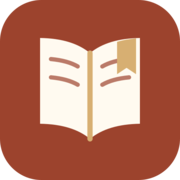
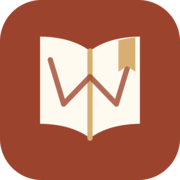
feat(brand): rename app to Das Wort

diff --git a/src/App.tsx b/src/App.tsx
@@ -35,6 +35,7 @@ import {
   readerFontStacks,
 } from './ReaderSettings';
 import type { HighlightColor, ReaderTheme } from './ReaderSettings';
+import { readAppStorage, writeAppStorage } from './storage';
 import type { Book, Passage, PassageLocation, SearchResult, StudyComment, Translation } from './types';
 
 const DEFAULT_BOOK = 43;
@@ -51,7 +52,7 @@ type ReadingState = {
 
 function loadReadingState(): Partial<ReadingState> {
   try {
-    const saved = JSON.parse(localStorage.getItem('bibelraum.reading-state') ?? '{}');
+    const saved = JSON.parse(readAppStorage('reading-state') ?? '{}');
     return saved && typeof saved === 'object' ? saved as Partial<ReadingState> : {};
   } catch {
     return {};
@@ -68,7 +69,7 @@ function getInitialLocation() {
     bookId: hasUrlLocation ? book : Number(saved.bookId) || DEFAULT_BOOK,
     chapter: Number.isInteger(chapter) && chapter > 0 ? chapter : Number(saved.chapter) || DEFAULT_CHAPTER,
     translation: params.get('uebersetzung')?.toUpperCase() ||
-      saved.translation || localStorage.getItem('bibelraum.translation') || DEFAULT_TRANSLATION,
+      saved.translation || readAppStorage('translation') || DEFAULT_TRANSLATION,
     verse: Number(params.get('vers')?.split(',')[0]) || null,
     scrollY: hasUrlLocation ? 0 : Math.max(0, Number(saved.scrollY) || 0),
   };
@@ -87,7 +88,7 @@ type BeforeInstallPromptEvent = Event & {
 
 function loadMarkedVerses() {
   try {
-    const saved = JSON.parse(localStorage.getItem('bibelraum.marked-verses') ?? '[]');
+    const saved = JSON.parse(readAppStorage('marked-verses') ?? '[]');
     if (Array.isArray(saved)) {
       return Object.fromEntries(
         saved.filter((item): item is string => typeof item === 'string').map((key) => [key, 'yellow']),
@@ -108,7 +109,7 @@ function loadMarkedVerses() {
 
 function loadRecentTranslations(initialCode: string) {
   try {
-    const saved = JSON.parse(localStorage.getItem('bibelraum.recent-translations') ?? '[]');
+    const saved = JSON.parse(readAppStorage('recent-translations') ?? '[]');
     const codes = Array.isArray(saved) ? saved.filter((item): item is string => typeof item === 'string') : [];
     return [initialCode, ...codes.filter((code) => code !== initialCode)].slice(0, 4);
   } catch {
@@ -116,9 +117,9 @@ function loadRecentTranslations(initialCode: string) {
   }
 }
 
-function loadNumberList(key: string) {
+function loadNumberList(name: string) {
   try {
-    const saved = JSON.parse(localStorage.getItem(key) ?? '[]');
+    const saved = JSON.parse(readAppStorage(name) ?? '[]');
     return Array.isArray(saved) ? saved.filter((item): item is number => Number.isInteger(item)) : [];
   } catch {
     return [];
@@ -127,7 +128,7 @@ function loadNumberList(key: string) {
 
 function loadBookProgress() {
   try {
-    const saved = JSON.parse(localStorage.getItem('bibelraum.book-progress') ?? '{}');
+    const saved = JSON.parse(readAppStorage('book-progress') ?? '{}');
     return saved && typeof saved === 'object' ? saved as Record<number, number> : {};
   } catch {
     return {};
@@ -135,13 +136,13 @@ function loadBookProgress() {
 }
 
 function getInitialTheme() {
-  const saved = localStorage.getItem('bibelraum.theme');
+  const saved = readAppStorage('theme');
   if (saved === 'dark' || saved === 'light' || saved === 'sepia' || saved === 'gray' || saved === 'black') return saved;
   return window.matchMedia('(prefers-color-scheme: dark)').matches ? 'dark' : 'light';
 }
 
 function getInitialExpertMode() {
-  return localStorage.getItem('bibelraum.expert-mode') === 'true';
+  return readAppStorage('expert-mode') === 'true';
 }
 
 export function App() {
@@ -160,7 +161,7 @@ export function App() {
   const [sidebarOpen, setSidebarOpen] = useState(false);
   const [mobileExpandedBookId, setMobileExpandedBookId] = useState(initial.bookId);
   const [bookFilter, setBookFilter] = useState('');
-  const [recentBookIds, setRecentBookIds] = useState(() => loadNumberList('bibelraum.recent-books'));
+  const [recentBookIds, setRecentBookIds] = useState(() => loadNumberList('recent-books'));
   const [bookProgress, setBookProgress] = useState(loadBookProgress);
   const [translationOpen, setTranslationOpen] = useState(false);
   const [expertMode, setExpertMode] = useState(getInitialExpertMode);
@@ -303,13 +304,13 @@ export function App() {
 
   useEffect(() => {
     document.title = homeOpen
-      ? 'Bibelraum · Die Bibel in deinem Rhythmus'
-      : `${passage?.book.name ?? currentBook?.name ?? 'Bibel'} ${chapter} · Bibelraum`;
+      ? 'Das Wort · Die Bibel in deinem Rhythmus'
+      : `${passage?.book.name ?? currentBook?.name ?? 'Bibel'} ${chapter} · Das Wort`;
   }, [chapter, currentBook?.name, homeOpen, passage?.book.name]);
 
   useEffect(() => {
     document.documentElement.dataset.theme = theme;
-    localStorage.setItem('bibelraum.theme', theme);
+    writeAppStorage('theme', theme);
     document.querySelector('meta[name="theme-color"]')?.setAttribute(
       'content',
       ({ light: '#f4f0e7', sepia: '#eee3ce', gray: '#e8e8e5', dark: '#171816', black: '#000000' })[theme],
@@ -322,11 +323,11 @@ export function App() {
   }, [readerSettings.accent, readerSettings.highlight]);
 
   useEffect(() => {
-    localStorage.setItem('bibelraum.reader-settings', JSON.stringify(readerSettings));
+    writeAppStorage('reader-settings', JSON.stringify(readerSettings));
   }, [readerSettings]);
 
   useEffect(() => {
-    localStorage.setItem('bibelraum.marked-verses', JSON.stringify(markedVerses));
+    writeAppStorage('marked-verses', JSON.stringify(markedVerses));
   }, [markedVerses]);
 
   useEffect(() => {
@@ -334,7 +335,7 @@ export function App() {
   }, [selectedVerses.length]);
 
   useEffect(() => {
-    localStorage.setItem('bibelraum.recent-translations', JSON.stringify(recentTranslations));
+    writeAppStorage('recent-translations', JSON.stringify(recentTranslations));
   }, [recentTranslations]);
 
   useEffect(() => {
@@ -343,11 +344,11 @@ export function App() {
   }, [bookId, chapter]);
 
   useEffect(() => {
-    localStorage.setItem('bibelraum.recent-books', JSON.stringify(recentBookIds));
+    writeAppStorage('recent-books', JSON.stringify(recentBookIds));
   }, [recentBookIds]);
 
   useEffect(() => {
-    localStorage.setItem('bibelraum.book-progress', JSON.stringify(bookProgress));
+    writeAppStorage('book-progress', JSON.stringify(bookProgress));
   }, [bookProgress]);
 
   useEffect(() => {
@@ -360,11 +361,11 @@ export function App() {
   }, [readerSettingsOpen, translationOpen]);
 
   useEffect(() => {
-    localStorage.setItem('bibelraum.expert-mode', String(expertMode));
+    writeAppStorage('expert-mode', String(expertMode));
   }, [expertMode]);
 
   useEffect(() => {
-    localStorage.setItem('bibelraum.translation', primaryCode);
+    writeAppStorage('translation', primaryCode);
     if (homeOpen) {
       window.history.replaceState(null, '', '/');
       return;
@@ -390,7 +391,7 @@ export function App() {
     let saveTimer = 0;
 
     function persistPosition() {
-      localStorage.setItem('bibelraum.reading-state', JSON.stringify({
+      writeAppStorage('reading-state', JSON.stringify({
         bookId,
         chapter,
         translation: primaryCode,
@@ -721,9 +722,9 @@ export function App() {
         <button className="icon-button mobile-only" onClick={openBookPicker} aria-label="Bücher öffnen">
           <Menu size={20} />
         </button>
-        <a className="brand" href="/" onClick={(event) => { event.preventDefault(); setHomeOpen(true); }} aria-label="Bibelraum Startseite">
-          <span className="brand-mark"><img src="/icons/bibelraum.svg" alt="" /></span>
-          <span>Bibelraum</span>
+        <a className="brand" href="/" onClick={(event) => { event.preventDefault(); setHomeOpen(true); }} aria-label="Das Wort Startseite">
+          <span className="brand-mark"><img src="/icons/das-wort.svg" alt="" /></span>
+          <span>Das Wort</span>
         </a>
         <div className="topbar-rule" />
         <span className="topbar-kicker">Lokal lesen</span>
@@ -1085,9 +1086,9 @@ function HomePage({
   return (
     <div className="home-shell">
       <header className="home-topbar">
-        <a className="brand" href="/" aria-label="Bibelraum Startseite">
-          <span className="brand-mark"><img src="/icons/bibelraum.svg" alt="" /></span>
-          <span>Bibelraum</span>
+        <a className="brand" href="/" aria-label="Das Wort Startseite">
+          <span className="brand-mark"><img src="/icons/das-wort.svg" alt="" /></span>
+          <span>Das Wort</span>
         </a>
         <span className="home-topbar-note">Lesen · Verstehen · Bewahren</span>
         <button className="icon-button" onClick={onToggleTheme} aria-label={theme === 'dark' || theme === 'black' ? 'Hellmodus aktivieren' : 'Dunkelmodus aktivieren'}>
@@ -1129,7 +1130,7 @@ function HomePage({
           </button>
         </section>
 
-        <section className="home-features" aria-label="Bibelraum Funktionen">
+        <section className="home-features" aria-label="Funktionen von Das Wort">
           <article>
             <Library size={19} />
             <div><strong>{translationCount} Übersetzungen</strong><span>Einzeln lesen oder parallel vergleichen</span></div>
@@ -1146,7 +1147,7 @@ function HomePage({
       </main>
 
       <footer className="home-footer">
-        <span>Bibelraum</span>
+        <span>Das Wort</span>
         <span>Ein ruhiger Ort für Gottes Wort.</span>
       </footer>
     </div>

diff --git a/index.html b/index.html
@@ -4,30 +4,30 @@
     <meta charset="UTF-8" />
     <meta name="viewport" content="width=device-width, initial-scale=1.0" />
     <meta name="theme-color" content="#f4f0e7" />
-    <meta name="application-name" content="Bibelraum" />
+    <meta name="application-name" content="Das Wort" />
     <meta name="apple-mobile-web-app-capable" content="yes" />
     <meta name="apple-mobile-web-app-status-bar-style" content="default" />
-    <meta name="apple-mobile-web-app-title" content="Bibelraum" />
+    <meta name="apple-mobile-web-app-title" content="Das Wort" />
     <meta name="mobile-web-app-capable" content="yes" />
     <meta
       name="description"
-      content="Bibelraum – deutsche Bibelübersetzungen lokal lesen, vergleichen und durchsuchen."
+      content="Das Wort – deutsche Bibelübersetzungen lokal lesen, vergleichen und durchsuchen."
     />
     <meta property="og:type" content="website" />
     <meta property="og:locale" content="de_DE" />
-    <meta property="og:site_name" content="Bibelraum" />
-    <meta property="og:title" content="Bibelraum · Die Bibel in deinem Rhythmus" />
+    <meta property="og:site_name" content="Das Wort" />
+    <meta property="og:title" content="Das Wort · Die Bibel in deinem Rhythmus" />
     <meta property="og:description" content="Deutsche Bibelübersetzungen lesen, vergleichen und mit Studienkommentaren entdecken." />
     <meta property="og:image" content="https://bibel.samuelgesang.de/og.png" />
     <meta name="twitter:card" content="summary_large_image" />
-    <meta name="twitter:title" content="Bibelraum · Die Bibel in deinem Rhythmus" />
+    <meta name="twitter:title" content="Das Wort · Die Bibel in deinem Rhythmus" />
     <meta name="twitter:description" content="Deutsche Bibelübersetzungen lesen, vergleichen und mit Studienkommentaren entdecken." />
     <meta name="twitter:image" content="https://bibel.samuelgesang.de/og.png" />
     <link rel="canonical" href="https://bibel.samuelgesang.de/" />
-    <link rel="icon" href="/icons/bibelraum.svg" type="image/svg+xml" />
+    <link rel="icon" href="/icons/das-wort.svg" type="image/svg+xml" />
     <link rel="apple-touch-icon" href="/apple-touch-icon.png" />
     <link rel="manifest" href="/manifest.webmanifest" />
-    <title>Bibelraum · Die Bibel in deinem Rhythmus</title>
+    <title>Das Wort · Die Bibel in deinem Rhythmus</title>
   </head>
   <body>
     <div id="root"></div>

diff --git a/src/ReaderSettings.tsx b/src/ReaderSettings.tsx
@@ -1,4 +1,5 @@
 import { ALargeSmall, AlignJustify, AlignLeft, Check, Minus, Plus, RotateCcw, X } from 'lucide-react';
+import { readAppStorage } from './storage';
 
 export type ReaderSettings = {
   fontSize: number;
@@ -59,7 +60,7 @@ const themeChoices: Array<{ id: ReaderTheme; name: string }> = [
 
 export function loadReaderSettings(): ReaderSettings {
   try {
-    const saved = JSON.parse(localStorage.getItem('bibelraum.reader-settings') ?? '{}') as Partial<ReaderSettings>;
+    const saved = JSON.parse(readAppStorage('reader-settings') ?? '{}') as Partial<ReaderSettings>;
     const fontFamily = saved.fontFamily && Object.hasOwn(readerFontStacks, saved.fontFamily)
       ? saved.fontFamily
       : defaultReaderSettings.fontFamily;

diff --git a/src/storage.ts b/src/storage.ts
@@ -1,0 +1,16 @@
+const APP_STORAGE_PREFIX = 'das-wort';
+const LEGACY_STORAGE_PREFIX = 'bibelraum';
+
+export function readAppStorage(name: string) {
+  const currentKey = `${APP_STORAGE_PREFIX}.${name}`;
+  const currentValue = localStorage.getItem(currentKey);
+  if (currentValue !== null) return currentValue;
+
+  const legacyValue = localStorage.getItem(`${LEGACY_STORAGE_PREFIX}.${name}`);
+  if (legacyValue !== null) localStorage.setItem(currentKey, legacyValue);
+  return legacyValue;
+}
+
+export function writeAppStorage(name: string, value: string) {
+  localStorage.setItem(`${APP_STORAGE_PREFIX}.${name}`, value);
+}

diff --git a/server/database.ts b/server/database.ts
@@ -252,7 +252,7 @@ async function rebuildDatabase(
   await mkdir(path.dirname(databasePath), { recursive: true });
   const importPath = `${databasePath}.importing`;
   await rm(importPath, { force: true });
-  const tempDirectory = await mkdtemp(path.join(tmpdir(), 'bibelraum-'));
+  const tempDirectory = await mkdtemp(path.join(tmpdir(), 'das-wort-'));
 
   try {
     const modules = await extractModules(archivePath, tempDirectory, 'bible');

diff --git a/public/sw.js b/public/sw.js
@@ -1,9 +1,9 @@
-const SHELL_CACHE = 'bibelraum-shell-v1';
-const CONTENT_CACHE = 'bibelraum-content-v1';
+const SHELL_CACHE = 'das-wort-shell-v2';
+const CONTENT_CACHE = 'das-wort-content-v2';
 const APP_SHELL = [
   '/',
   '/manifest.webmanifest',
-  '/icons/bibelraum.svg',
+  '/icons/das-wort.svg',
   '/icons/icon-192.png',
   '/icons/icon-512.png',
   '/apple-touch-icon.png',

diff --git a/server/index.ts b/server/index.ts
@@ -18,7 +18,7 @@ try {
     : undefined;
   const app = createApp(repository, staticDirectory);
   const server = app.listen(config.port, () => {
-    console.log(`Bibelraum läuft auf http://localhost:${config.port}`);
+    console.log(`Das Wort läuft auf http://localhost:${config.port}`);
   });
 
   function shutdown() {

diff --git a/server/config.ts b/server/config.ts
@@ -13,6 +13,6 @@ export const config = {
     ? path.resolve(process.env.STUDY_ARCHIVE)
     : undefined,
   databasePath: path.resolve(
-    process.env.BIBLE_DB ?? path.join(projectRoot, 'data', 'bibelraum.sqlite'),
+    process.env.BIBLE_DB ?? path.join(projectRoot, 'data', 'das-wort.sqlite'),
   ),
 };

diff --git a/README.md b/README.md
@@ -1,6 +1,6 @@
-# Bibelraum
+# Das Wort
 
-Bibelraum ist eine vollständig lokale Leseoberfläche für die deutschen
+Das Wort ist eine vollständig lokale Leseoberfläche für die deutschen
 OpenLP-Bibelmodule aus `OpenLP-Bibeln-DE-2026-09-07.zip`. Die Originaldateien im
 Archiv bleiben unverändert. Beim ersten Start werden alle Übersetzungen in eine
 gemeinsame, für die Web-App optimierte SQLite-Datenbank importiert.
@@ -32,9 +32,9 @@ npm run build
 npm start
 ```
 
-Danach ist Bibelraum unter [http://localhost:4174](http://localhost:4174)
+Danach ist Das Wort unter [http://localhost:4174](http://localhost:4174)
 erreichbar. Der erste Start dauert einige Sekunden, weil die App das Archiv
-einmalig einliest. Die erzeugte Datei liegt unter `data/bibelraum.sqlite`
+einmalig einliest. Die erzeugte Datei liegt unter `data/das-wort.sqlite`
 und wird nicht in Git aufgenommen. Ändert sich das Archiv, wird sie beim nächsten
 Start automatisch neu aufgebaut.
 
@@ -54,7 +54,7 @@ Archiv, Datenbank und Port können über Umgebungsvariablen gesetzt werden:
 ```bash
 BIBLE_ARCHIVE="/pfad/meine-bibeln.zip" \
 STUDY_ARCHIVE="/pfad/MacArthur-Studienbibel-SLT2000-OpenLP-2026-09-12.zip" \
-BIBLE_DB="/pfad/bibelraum.sqlite" \
+BIBLE_DB="/pfad/das-wort.sqlite" \
 PORT=8080 \
 npm start
 ```
